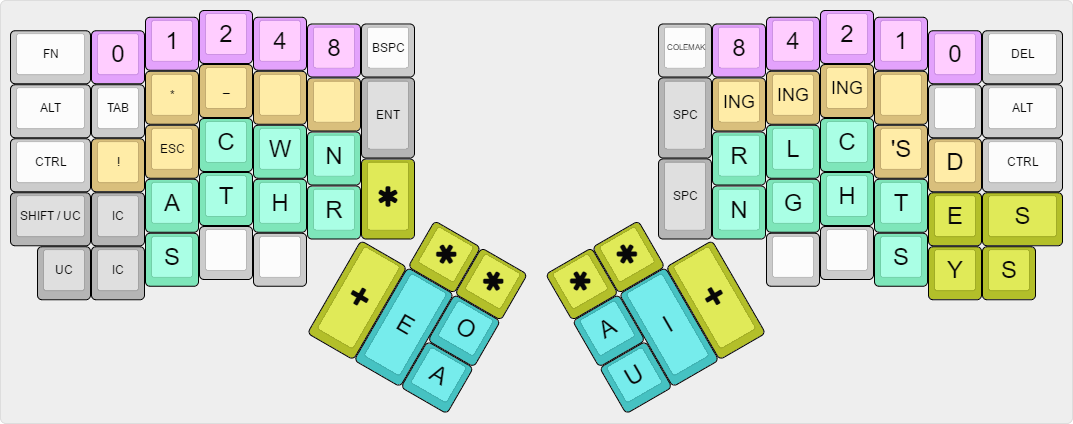
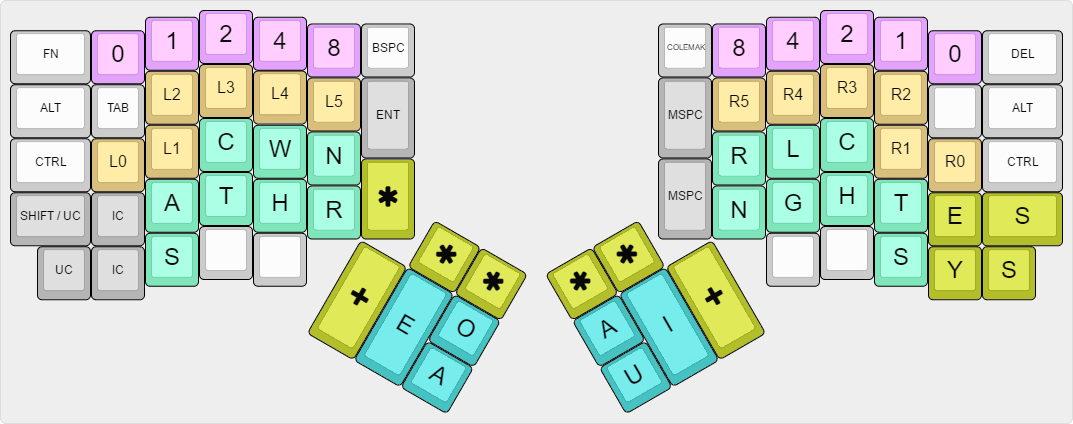
Programmer Steno: Doc updated

diff --git a/keyboards/ergodox/keymaps/fromtonrouge/readme.md b/keyboards/ergodox/keymaps/fromtonrouge/readme.md
@@ -25,6 +25,11 @@ The TEENSY key (RESET) is define in this layer
 (Inspired by the Jackdaw steno theory https://sites.google.com/site/ploverdoc/jackdaw)
 
 Numbers are binary numbers : you can stroke 2 numbers at the same time (from 0 to 15 for each hand)
+By default a space is added automatically after a stroke (AUTO_SPACE_ENABLE=yes)
+MSPC is the MetaSpace key:
+    - When used in a stroke it cancels the space added automatically.
+    - When used alone it adds a space.
+    - When used with the STAR key, MSPC becomes a Backspace key.
 
 ![Programmer Steno](programmer-steno.png)
 
